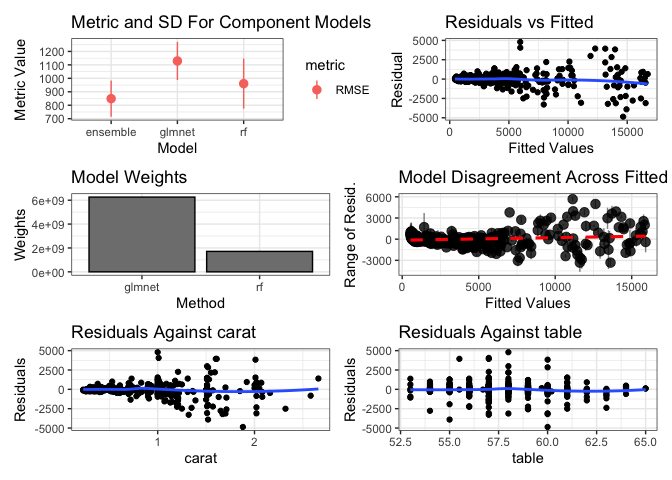
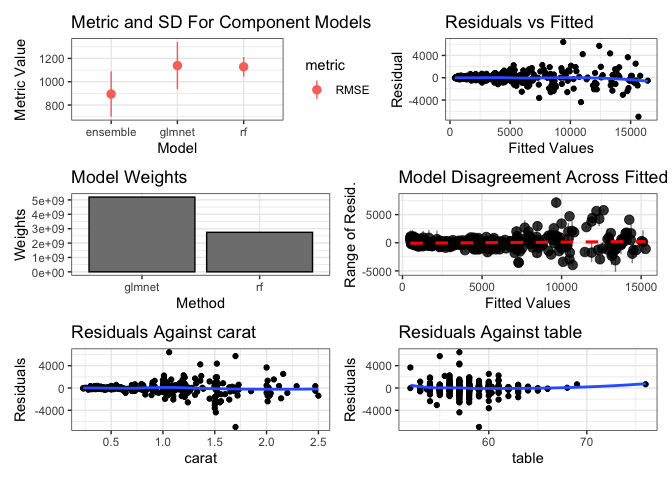
print-em

diff --git a/README.md b/README.md
@@ -46,10 +46,10 @@ print(summary(models))
 #> The following models were ensembled: rf, glmnet  
 #> 
 #> Model accuracy:
-#>    model_name metric     value       sd
-#>        <char> <char>     <num>    <num>
-#> 1:         rf   RMSE  960.6879 185.7793
-#> 2:     glmnet   RMSE 1129.2088 141.2402
+#>    model_name metric    value        sd
+#>        <char> <char>    <num>     <num>
+#> 1:         rf   RMSE 1127.974  83.50596
+#> 2:     glmnet   RMSE 1138.137 202.80472
 ```
 
 Then, use caretEnsemble to make a greedy ensemble of these models
@@ -67,18 +67,18 @@ print(greedy_stack)
 #> Summary of sample sizes: 400, 400, 400, 400, 400 
 #> Resampling results:
 #> 
-#>   RMSE      Rsquared   MAE    
-#>   935.4086  0.9478161  527.013
+#>   RMSE      Rsquared   MAE     
+#>   1003.391  0.9357974  577.2895
 #> 
 #> Tuning parameter 'max_iter' was held constant at a value of 100
 #> 
 #> Final model:
 #> Greedy MSE
-#> RMSE:  933.8605 
+#> RMSE:  1010.776 
 #> Weights:
 #>        [,1]
-#> rf      0.7
-#> glmnet  0.3
+#> rf     0.52
+#> glmnet 0.48
 ggplot2::autoplot(greedy_stack, training_data = dat, xvars = c("carat", "table"))
 ```
 
@@ -101,7 +101,7 @@ print(rf_stack)
 #> Resampling results:
 #> 
 #>   RMSE      Rsquared   MAE     
-#>   849.1342  0.9573736  456.2256
+#>   894.1208  0.9518165  455.1419
 #> 
 #> Tuning parameter 'mtry' was held constant at a value of 2
 #> 
@@ -113,8 +113,8 @@ print(rf_stack)
 #>                      Number of trees: 500
 #> No. of variables tried at each split: 2
 #> 
-#>           Mean of squared residuals: 669531.3
-#>                     % Var explained: 95.8
+#>           Mean of squared residuals: 800137.3
+#>                     % Var explained: 94.96
 ggplot2::autoplot(rf_stack, training_data = dat, xvars = c("carat", "table"))
 ```
 
